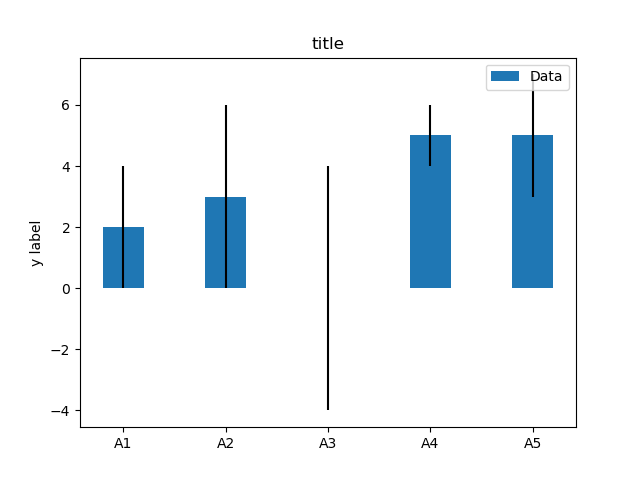
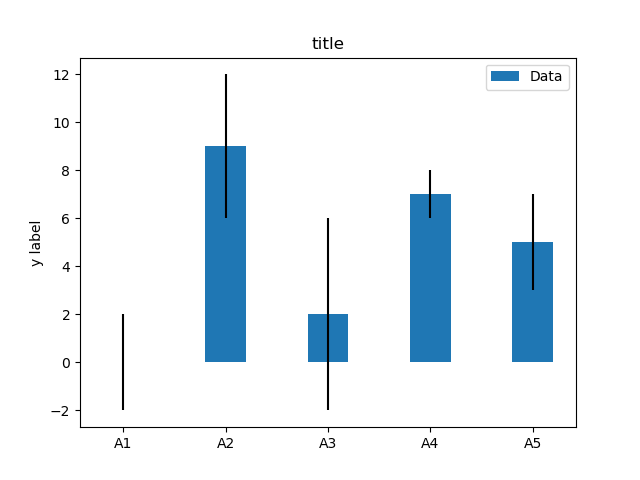
first commit

diff --git a/example.py b/example.py
@@ -2,7 +2,7 @@ import numpy as np
 import matplotlib.pyplot as plt
 
 labels = ['A1', 'A2', 'A3', 'A4', 'A5']
-m_means = [2,3,0,5,5]
+m_means = [0,9,2,7,5]
 m_std = [2, 3, 4, 1, 2]
 width = 0.40       # the width of the bars
 

diff --git a/README.md b/README.md
@@ -1,4 +1,4 @@
-# Matplotlib no 249 
+# Matplotlib no 250 
 
 python example
 
